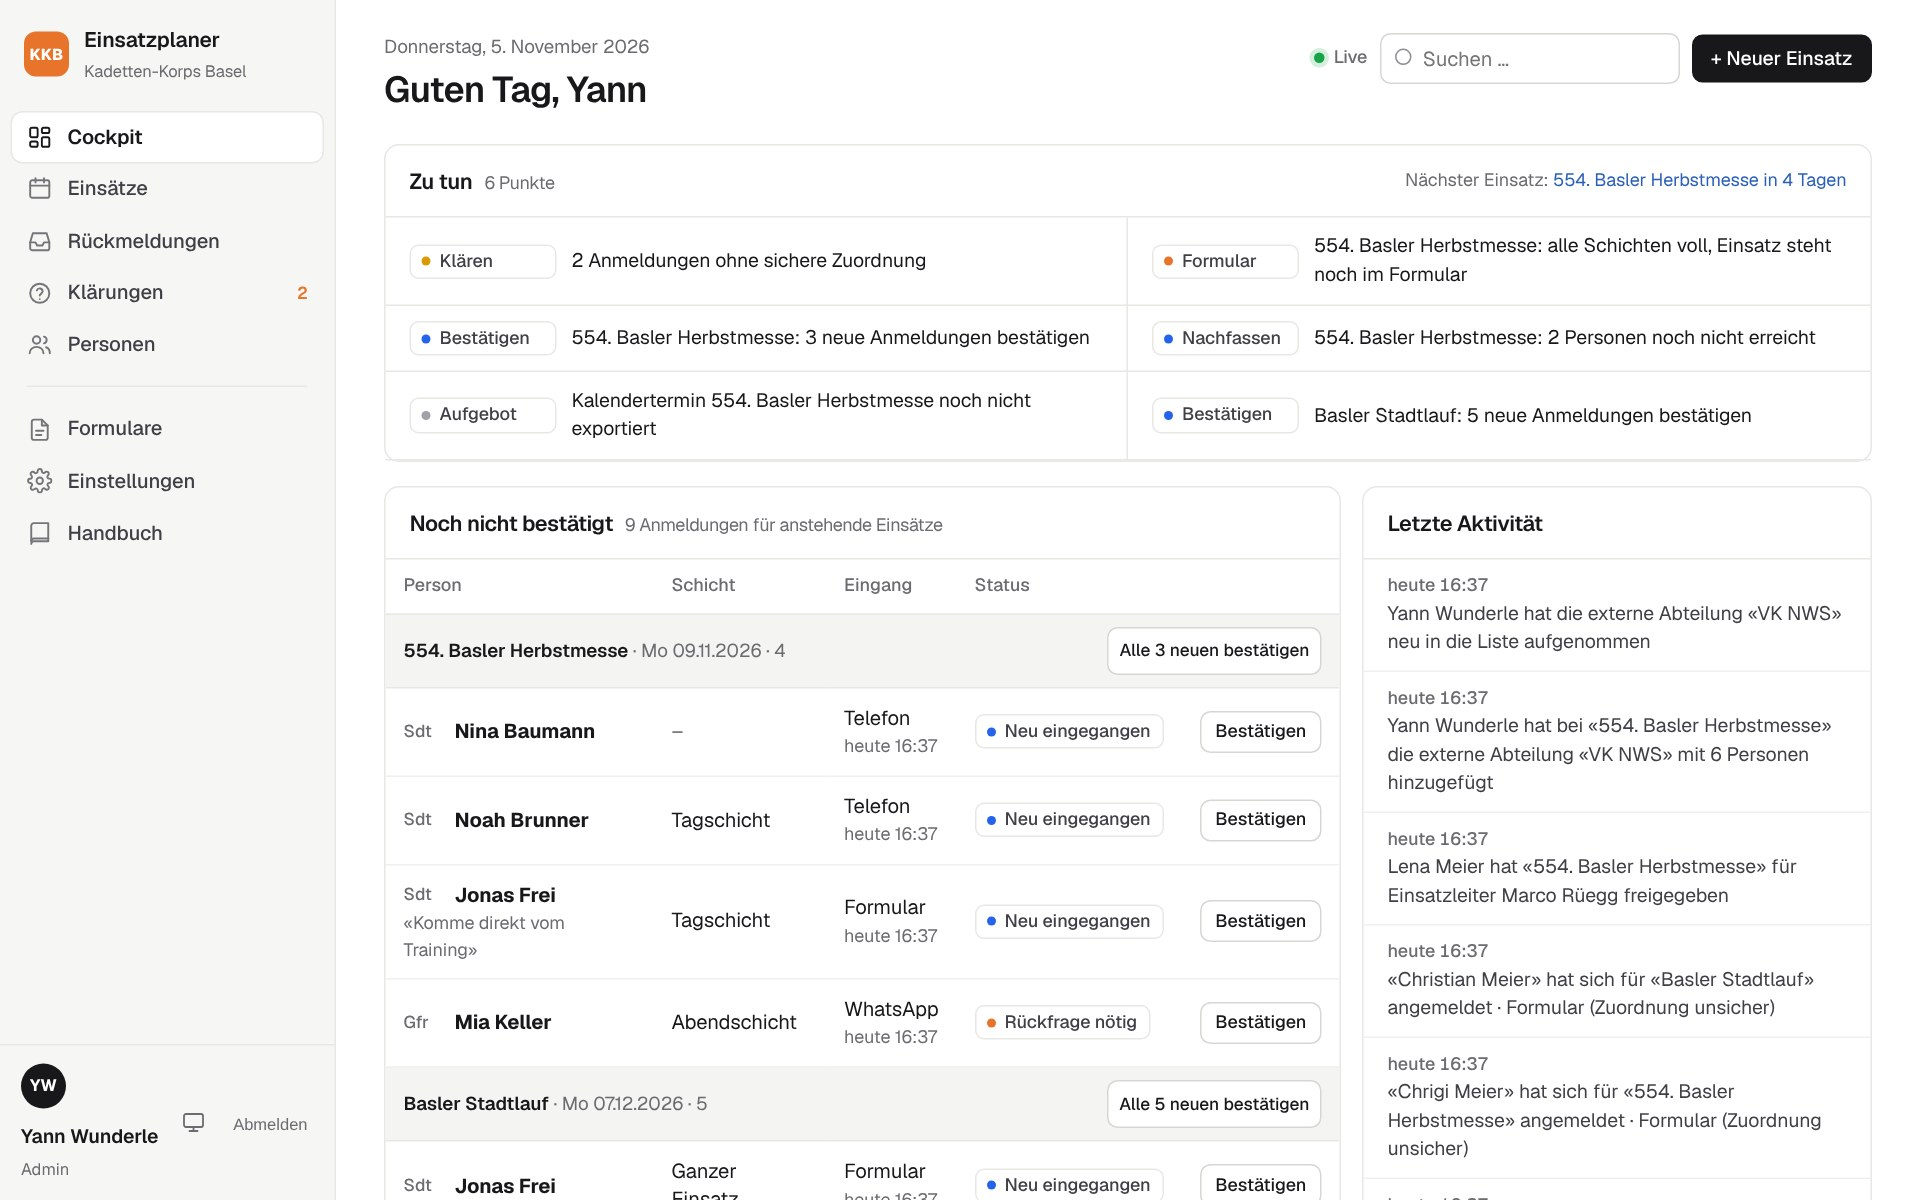
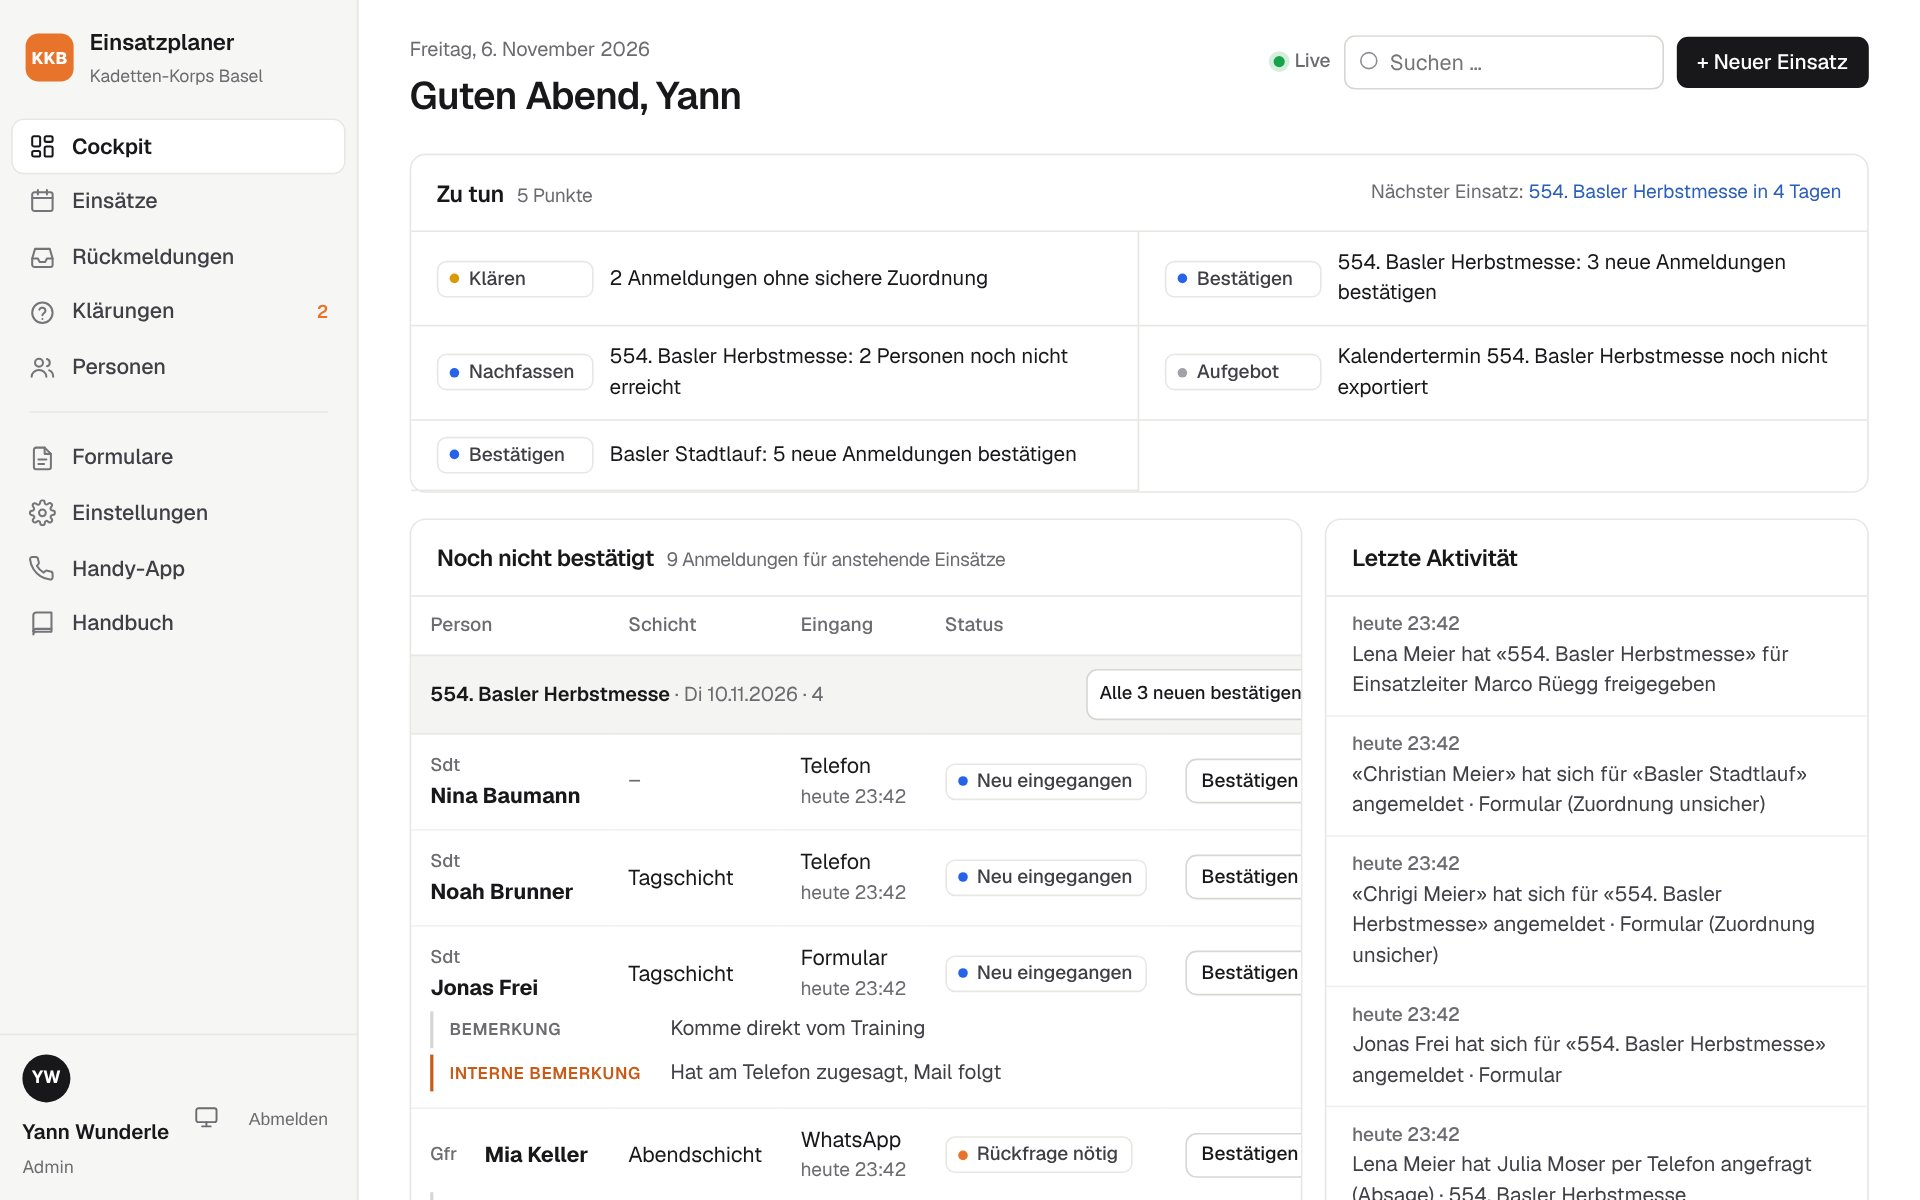
Cockpit «Noch nicht bestätigt»: Bemerkung und interne Bemerkung mit Label
Beide Bemerkungen stehen in einer eigenen Zeile unter der Person,
gekennzeichnet als «Bemerkung» und «Interne Bemerkung». Handbuch
Kapitel 4 mit neuem Bild nachgeführt.

Claude-Session: https://claude.ai/code/session_01EBemd3CPXn1cdDLZABg2XK

diff --git a/public/css/app.css b/public/css/app.css
@@ -791,3 +791,12 @@ tr.changed td:first-child { box-shadow: inset 3px 0 0 var(--orange, #e8742a); }
 .meal-sum td, .meal-sum th { font-variant-numeric: tabular-nums; }
 .meal-sum th .sub { display: block; font-weight: 400; text-transform: none; letter-spacing: 0; }
 .meal-sum tr.total td { font-weight: 700; border-top: 2px solid var(--border); }
+
+/* Cockpit «Noch nicht bestätigt»: Bemerkung und interne Bemerkung in eigener Zeile unter der Person */
+tr.has-notes > td { border-bottom: 0; padding-bottom: 4px; }
+tr.note-row > td { padding-top: 0; }
+.notes { display: grid; gap: 4px; }
+.note { display: flex; gap: 10px; align-items: baseline; font-size: 13px; line-height: 1.45; color: var(--text-2); padding: 2px 0 2px 10px; border-left: 2px solid var(--border-strong); }
+.note-k { flex: none; width: 128px; font-size: 10.5px; font-weight: 600; text-transform: uppercase; letter-spacing: .04em; color: var(--muted); }
+.note-intern { border-left-color: var(--orange-dark); }
+.note-intern .note-k { color: var(--orange-dark); }

diff --git a/src/services/cockpit.js b/src/services/cockpit.js
@@ -25,7 +25,7 @@ function data() {
 
 // Anmeldungen, die noch nicht bestätigt sind (Neu, Rückfrage) – für anstehende Einsätze. Die Warteliste ist ein bewusster Entscheid und fehlt hier.
 function unconfirmed() {
-  const rows = db.all(`SELECT g.id, g.status, g.source, g.registered_at, g.remark, g.event_id, e.name AS event_name, e.date_from AS event_date, e.date_to AS event_date_to, e.status AS event_status,
+  const rows = db.all(`SELECT g.id, g.status, g.source, g.registered_at, g.remark, g.internal_note, g.event_id, e.name AS event_name, e.date_from AS event_date, e.date_to AS event_date_to, e.status AS event_status,
       p.id AS person_id, p.first_name, p.last_name, r.short AS rank_short,
       (SELECT group_concat(s.name, ', ') FROM shift_assignments a JOIN shifts s ON s.id = a.shift_id WHERE a.registration_id = g.id) AS shifts
     FROM registrations g JOIN events e ON e.id = g.event_id JOIN persons p ON p.id = g.person_id LEFT JOIN ranks r ON r.id = p.rank_id

diff --git a/docs/handbuch/handbuch.md b/docs/handbuch/handbuch.md
@@ -109,6 +109,11 @@ Das Cockpit beantwortet jeden Tag die Frage: Was ist zu tun?
 
 - **Zu tun** (ganz oben, über die ganze Breite): konkrete Hinweise, z. B. unklare Namen klären, Anmeldungen bestätigen, Personen nachfassen, ein voller Einsatz, der noch im Formular steht, oder ein Aufgebot, das noch nicht exportiert ist. Ein Klick öffnet die passende Seite. Sind es mehr als sechs Punkte, zeigt **weitere Punkte anzeigen** den Rest. Rechts im Kopf steht der nächste Einsatz.
 - **Noch nicht bestätigt:** links alle Anmeldungen für anstehende Einsätze mit Status «Neu eingegangen» oder «Rückfrage nötig», nach Einsatz gruppiert. Die Warteliste steht nicht hier, weil sie ein bewusster Entscheid ist. Die Liste ist nach Rang geordnet, mit Schicht, Quelle und Zeitpunkt. **Bestätigen** bestätigt direkt aus dem Cockpit. Hat ein Einsatz mehrere neue Anmeldungen, bestätigt **Alle N neuen bestätigen** in der Zeile des Einsatzes alle auf einmal (mit Rückfrage). Ein Klick auf den Einsatznamen öffnet seine Anmeldungen.
+  Hat eine Anmeldung eine Bemerkung, steht sie in einer eigenen Zeile direkt unter der Person. Das Label zeigt, welche Bemerkung es ist:
+  - **Bemerkung** (grauer Strich): Diesen Text hat die Person selbst geschrieben, zum Beispiel im Formular.
+  - **Interne Bemerkung** (oranger Strich): Diesen Text hat die Aufgebotsstelle erfasst. Die Person sieht ihn nicht.
+
+  ![Noch nicht bestätigt mit Bemerkung und interner Bemerkung](bilder/02-cockpit-bemerkungen.jpg)
 - **Anstehende Einsätze:** direkt darunter die Besetzung pro Schicht (Ist / Soll; grün = voll, gelb = teilweise, rot = viele fehlen), dazu wie viele Anmeldungen neu, unsicher oder offen sind. Ein Klick öffnet den Einsatz.
 - **Letzte Aktivität** (rechts): die acht neuesten Einträge, wer sich wann angemeldet hat, wer wen angefragt und wer was bestätigt hat. **Ältere anzeigen** zeigt weitere.
 
